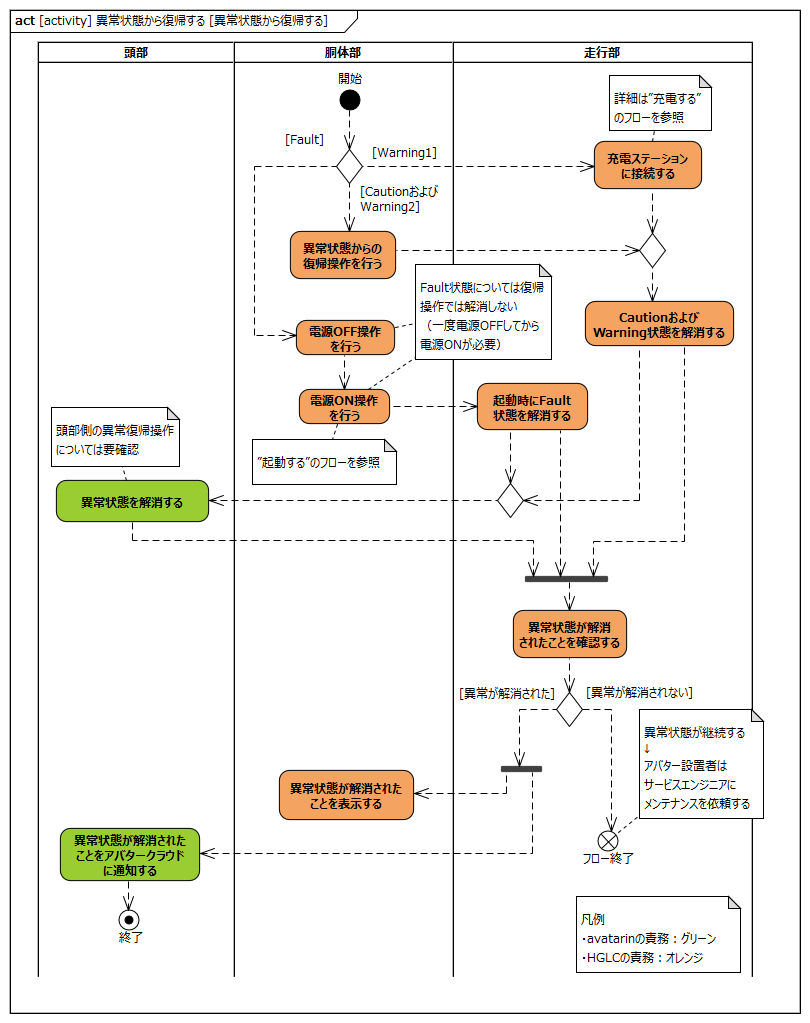
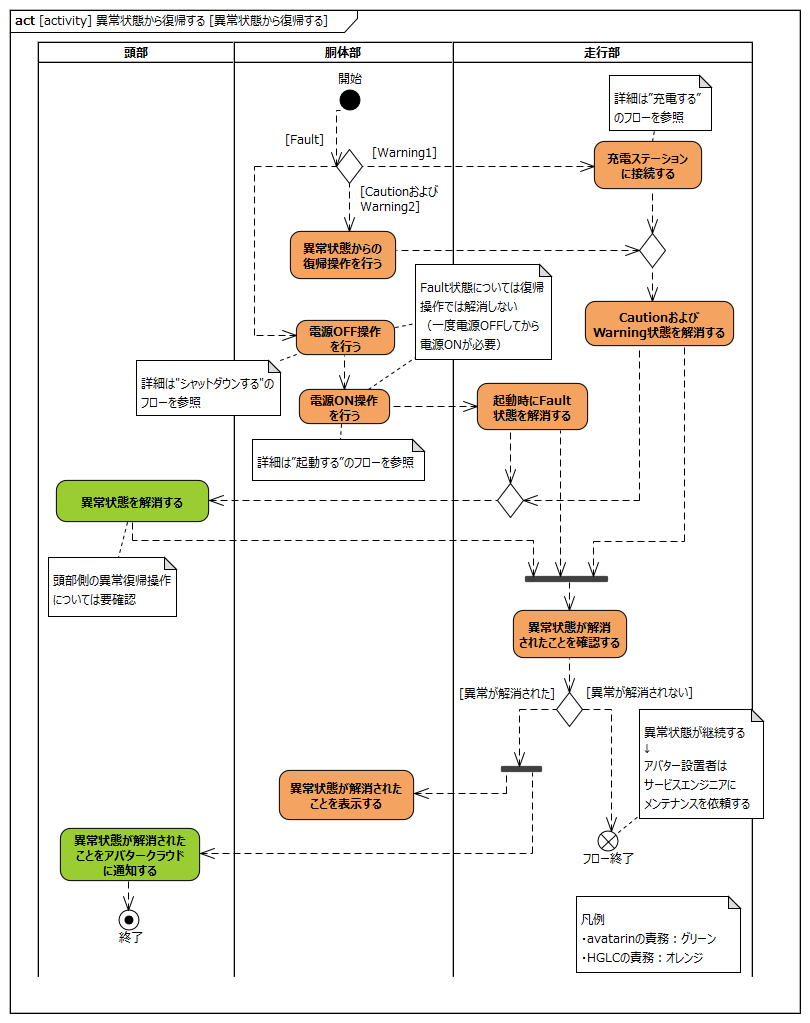
fix reviews from internal

diff --git a/requirements/requirement.md b/requirements/requirement.md
@@ -1826,7 +1826,8 @@ SysRS-11と統合のため廃止
 |頭部は走行部からの指示により異常状態を解消する||
 |頭部は異常状態が解消されたことをアバタークラウドに通知する||
 |胴体部はCautionおよびWarning2状態の時に復帰操作を受け付ける||
-|胴体部はFault状態の時に電源OFF操作を受け付ける|Fault状態でも電源をOFFできるようにする|
+|胴体部はFault状態の時に電源OFF操作を受け付ける|Fault状態でも電源をOFFできるようにする。電源OFF
+についてはSysRS-15で詳細化|
 |胴体部は電源ON操作を受け付ける|SysRS-01で詳細化|
 |胴体部は異常状態が解消されたことを表示する||
 |走行部はWarning1状態の時に充電ステーションへの接続による復帰操作を受け付ける||
@@ -1887,7 +1888,8 @@ SysRS-11と統合のため廃止
 |頭部は頭部または胴体部の状態の変化を検知したら走行部に状態情報を送信する|胴体部の状態変化は首モータの異常を想定|
 |胴体部は状態の変化を検知したら頭部に状態情報を送信する||
 |胴体部は状態を表示する|LEDランプを想定|
-|走行部は各部から状態の変化を検知し表示する状態を決定する|・表示する状態の分類については「テレプレゼンスロボット本体の状態の整理」章を参照<br/>・イベント（走行部に送られる状態の変化通知）は個別のフローを参照|
+|走行部は状態の変化を検知したら、状態情報を送信する||
+|走行部は各部から状態の変化を受信し表示する状態を決定する|・表示する状態の分類については「テレプレゼンスロボット本体の状態の整理」章を参照<br/>・イベント（走行部に送られる状態の変化通知）は個別のフローを参照|
 
 
 <div style="page-break-before:always"></div>

diff --git a/requirements/software_update.md b/requirements/software_update.md
@@ -86,7 +86,7 @@ avatarin側の責務のため、対象外とする。
 |要求|備考|
 |:---|:---|
 |Miimo Main ECUは書き換え用PCから走行部ソフトウェアを受信する||
-|Miimo Main ECUは走行部ソフトウェアの書き換える||
+|Miimo Main ECUは走行部ソフトウェアを書き換える||
 |Miimo Main ECUはソフトウェア書き換え結果を書き換え用PCに送信する|※1※2|
 ※1:書き換え用PCは書き換え結果を元に再起動（失敗の場合は書き換えの再試行）を促す想定  
 ※2:書き換え直後の再起動はリプロ用の再起動シーケンスとなる想定

diff --git a/requirements/display_status.md b/requirements/display_status.md
@@ -108,7 +108,7 @@ avatarin側の責務のため、対象外とする。
 
 <div style="page-break-before:always"></div>
 
-## 走行部は各部から状態の変化を検知し表示する状態を決定する
+## 走行部は各部から状態の変化を受信し表示する状態を決定する
 
 ![](.images/activity/display_status/act02.png)
 

diff --git a/requirements/error_recovery.md b/requirements/error_recovery.md
@@ -146,7 +146,7 @@ avatarin側の責務のため、対象外とする。
 
 |要求|備考|
 |:---|:---|
-|Miimo Main ECUは起動時Fault状態を解消する||
+|Miimo Main ECUは起動時にFault状態を解消する||
 |Miimo Main ECUはFault状態解除指示を送信する||
 
 
